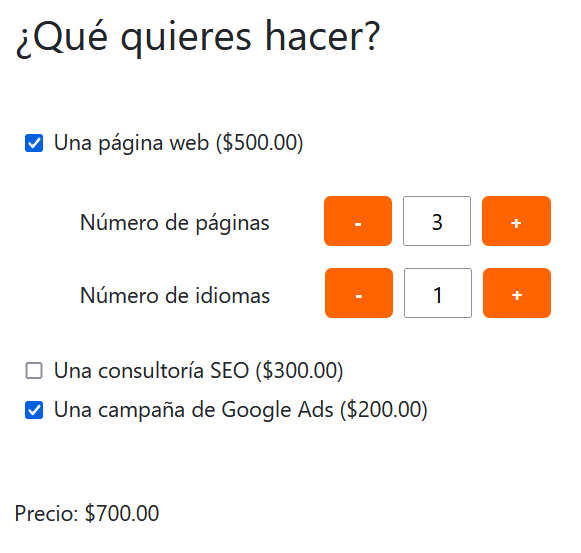
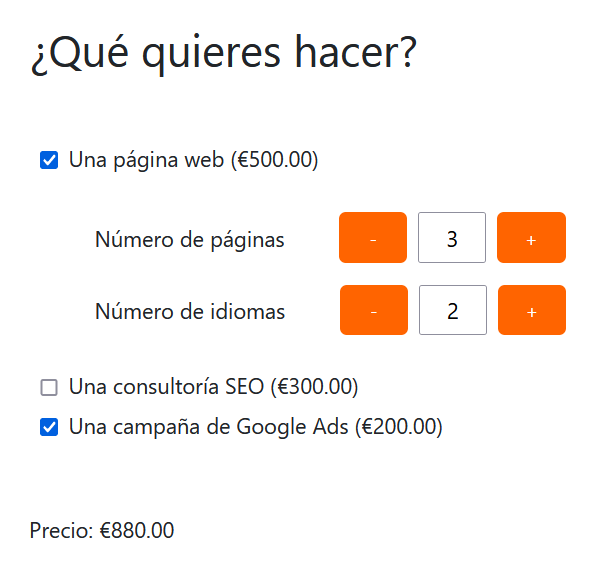
*commit* hay que arreglar el precio total cuando se toca el npaginas o nidiomas, ya que si despues se checkea seo o ads, no los añade.
el modal está ahi, pero tiene que recibir datos del producto, con lo que... y si inyecto productos en lugar de strings? y si añado un atributo precio en producto?

a la batcueva!

diff --git a/src/app/components/shared/my-input-w-buttons/my-input-w-buttons.component.html b/src/app/components/shared/my-input-w-buttons/my-input-w-buttons.component.html
@@ -3,4 +3,11 @@
     <button (click)="decreaseValue()">-</button>
     <input [(ngModel)]="value" type="text" name="input" (change)="emitValue()" />
     <button (click)="increaseValue()">+</button>
+    <a class="icon" (click)="onClickInfo()">
+        <!-- bs-icons:  information circle -->
+        <svg xmlns="http://www.w3.org/2000/svg" width="32" height="32" fill="#ccc" class="bi bi-info-circle-fill" viewBox="0 0 16 16">
+          <path d="M8 16A8 8 0 1 0 8 0a8 8 0 0 0 0 16zm.93-9.412-1 4.705c-.07.34.029.533.304.533.194 0 .487-.07.686-.246l-.088.416c-.287.346-.92.598-1.465.598-.703 0-1.002-.422-.808-1.319l.738-3.468c.064-.293.006-.399-.287-.47l-.451-.081.082-.381 2.29-.287zM8 5.5a1 1 0 1 1 0-2 1 1 0 0 1 0 2z"
+          />
+          </svg>
+    </a>
 </div>

diff --git a/src/app/components/shared/my-input-w-buttons/my-input-w-buttons.component.ts b/src/app/components/shared/my-input-w-buttons/my-input-w-buttons.component.ts
@@ -1,4 +1,5 @@
 import { Component, Input, OnInit, Output, EventEmitter } from '@angular/core';
+import { NgbModal } from '@ng-bootstrap/ng-bootstrap';
 
 @Component({
   selector: 'app-my-input-w-buttons',
@@ -11,7 +12,7 @@ export class MyInputWButtonsComponent implements OnInit {
   @Output() emitterInputWButtons = new EventEmitter<any>();
   public value:number = 1;
 
-  constructor() { }
+  constructor(private modal:NgbModal) { }
 
   ngOnInit(): void {
   }
@@ -31,5 +32,9 @@ export class MyInputWButtonsComponent implements OnInit {
     this.value === 1 ? this.value : this.value--;
     // console.log("InputWButtons:// DecreaseValue: " + this.value)
     this.emitValue();
+  }
+
+  onClickInfo(){
+    this.modal.open('');
   }
 }

diff --git a/src/app/data/mock-products.ts b/src/app/data/mock-products.ts
@@ -1,7 +1,22 @@
 import { Product } from './../interfaces/product';
 export const PRODUCTS: Product[] = [
-  { name: "web", description: "Una página web", price: 500, isChecked: false },
-  { name: "seo", description: "Una consultoría SEO", price: 300, isChecked: false  },
-  { name: "ads", description: "Una campaña de Google Ads", price: 200, isChecked: false  },
+  {
+    name: "web",
+    label: "Una página web",
+    price: 500,
+    isChecked: false,
+  },
+  {
+    name: "seo",
+    label: "Una consultoría SEO",
+    price: 300,
+    isChecked: false,
+  },
+  {
+    name: "ads",
+    label: "Una campaña de Google Ads",
+    price: 200,
+    isChecked: false,
+  },
 
 ]

diff --git a/src/app/components/shared/my-checkbox/my-checkbox.component.html b/src/app/components/shared/my-checkbox/my-checkbox.component.html
@@ -1,1 +1,1 @@
-<label for="{{product.name}}"><input type="checkbox" name="{{product.name}}" (change)="toggleCheck();"/>{{product.description}} ({{product.price |currency: 'EUR'}})</label>
+<label for="{{product.name}}"><input type="checkbox" name="{{product.name}}" (change)="toggleCheck();"/>{{product.label}} ({{product.price | currency: 'EUR'}})</label>

diff --git a/src/app/interfaces/product.ts b/src/app/interfaces/product.ts
@@ -1,6 +1,6 @@
 export interface Product {
   name: string,
-  description: string,
+  label: string,
   price: number,
-  isChecked: boolean
+  isChecked: boolean,
 }

diff --git a/src/app/components/shared/my-checkbox/my-checkbox.component.ts b/src/app/components/shared/my-checkbox/my-checkbox.component.ts
@@ -19,4 +19,6 @@ export class MyCheckboxComponent implements OnInit {
     this.product.isChecked = !this.product.isChecked;
   }
 
+
+
 }

diff --git a/src/app/pages/dashboard/dashboard.component.scss b/src/app/pages/dashboard/dashboard.component.scss
@@ -6,7 +6,6 @@ img {
 }
 
 button {
-    margin: 0 0 1rem 0;
     width: 100px;
     box-shadow: rgba(0, 0, 0, 0.35) 0px 5px 15px;
 }

diff --git a/src/app/components/shared/my-input-w-buttons/my-input-w-buttons.component.scss b/src/app/components/shared/my-input-w-buttons/my-input-w-buttons.component.scss
@@ -9,3 +9,7 @@
         margin: auto 2rem;
     }
 }
+
+.icon {
+    margin: auto 0.5rem;
+}
